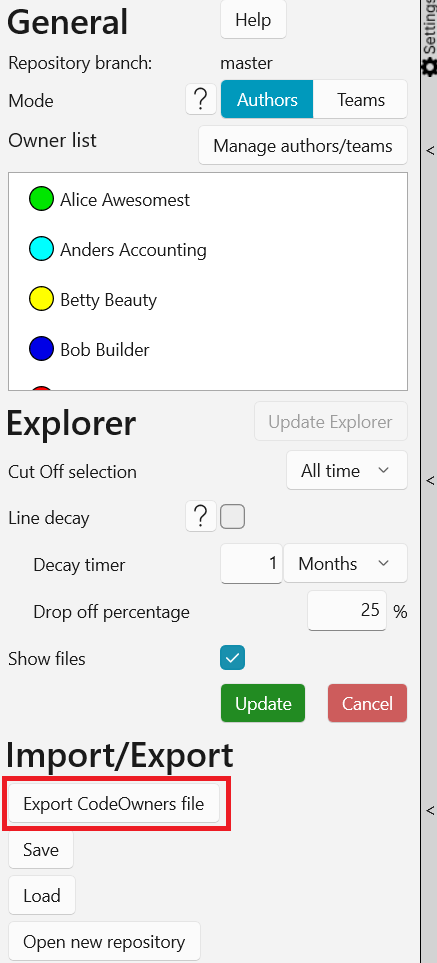
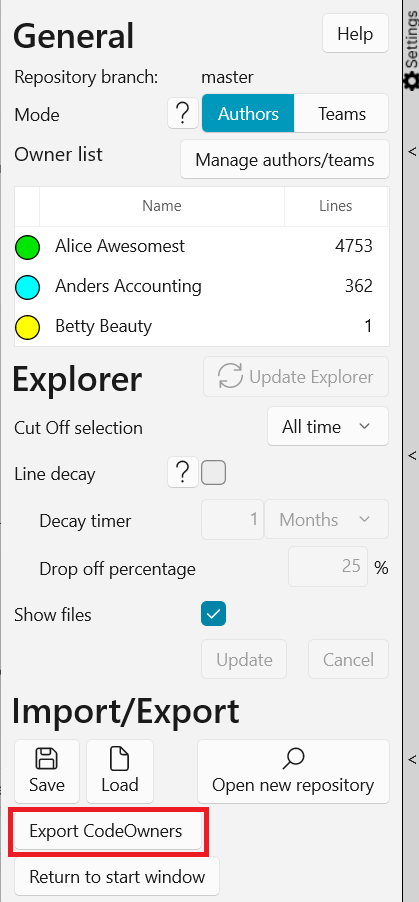
Updated pictures in help dialog

diff --git a/Project Codebase Overview/SettingsPage.xaml b/Project Codebase Overview/SettingsPage.xaml
@@ -236,7 +236,7 @@
             
             <Button Grid.Row="14" Grid.Column="0" Click="ExportCodeownersClick"
                     ToolTipService.ToolTip="Export a CODEOWNERS file from the current state">Export CodeOwners file</Button>
-            <Button Grid.Row="15" Grid.Column="0" Click="ReturnToStartClick"
+            <Button Grid.Row="15" Grid.Column="0" Grid.ColumnSpan="2" Click="ReturnToStartClick"
                     ToolTipService.ToolTip="Close this window and open the start window.">Return to start window</Button>
         </Grid>
         
